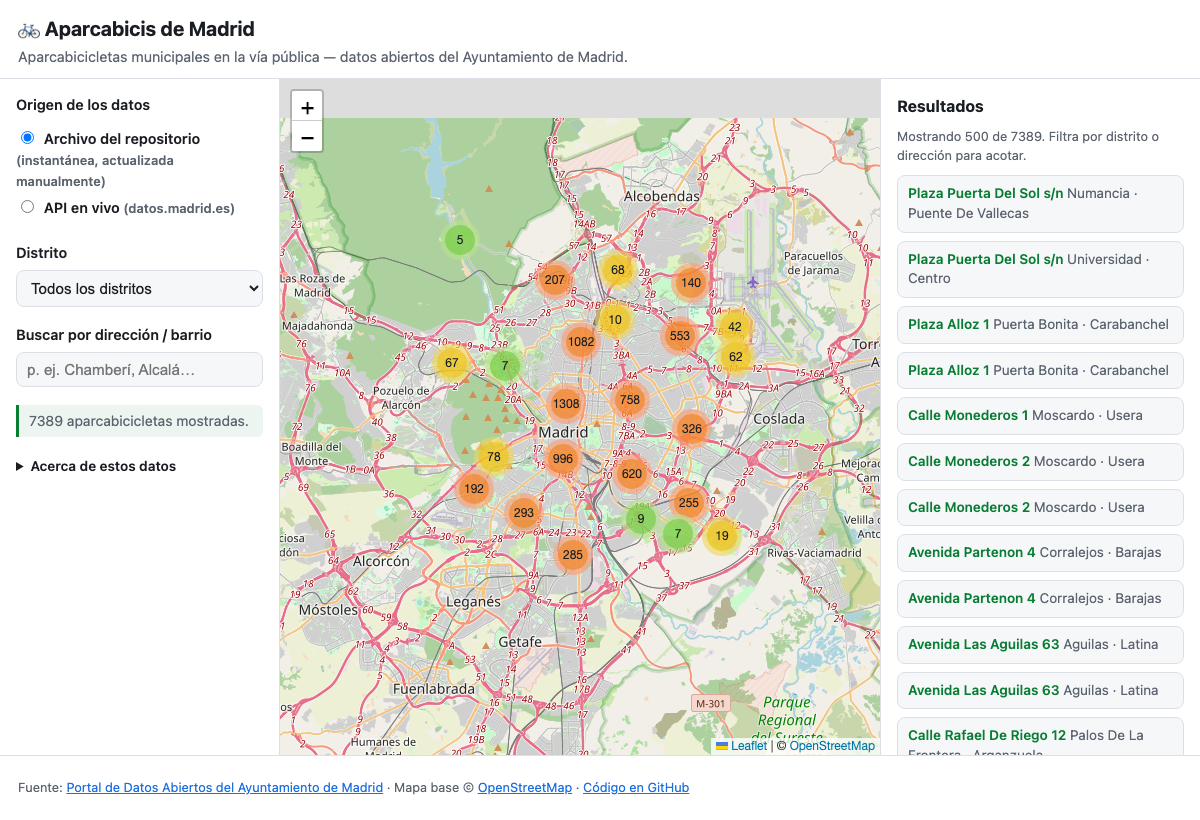
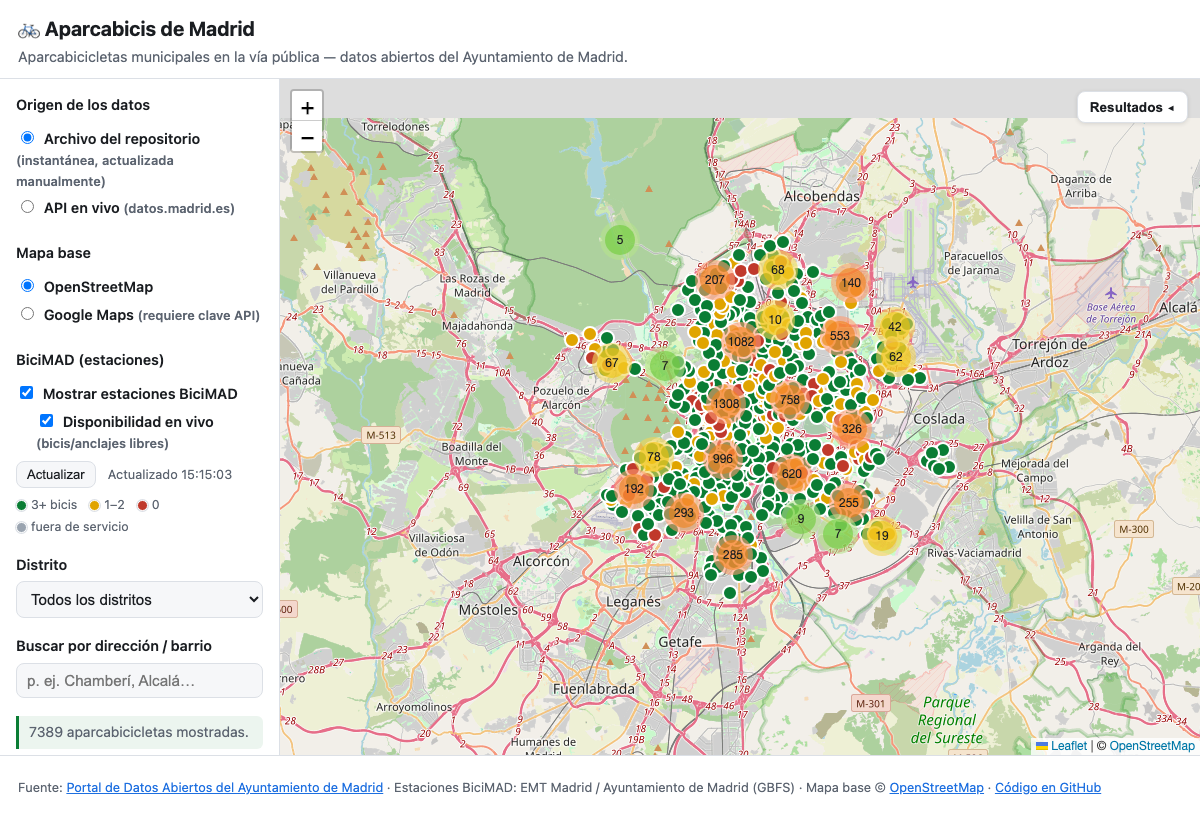
docs: refresh preview screenshot to feature the BiciMAD overlay

diff --git a/README.md b/README.md
@@ -6,7 +6,7 @@ be served from any static host.
 
 **Live demo:** <https://madrid-bike-parking.mariolonghi.workers.dev/>
 
-![Map of Madrid's bike-parking racks with clustering, filters and a synced results list](docs/preview.png)
+![Map of Madrid's bike-parking racks with the BiciMAD station overlay active — stations colour-coded by bikes available over the rack clusters, with the base-map, layer and filter controls in the sidebar](docs/preview.png)
 
 ## Features
 